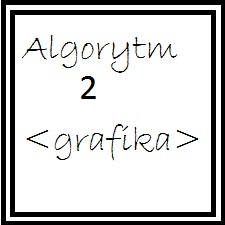
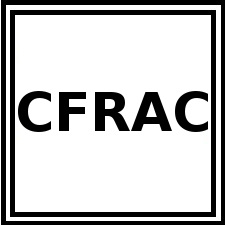
Addeded CFRAC adding page.

Changed region(s): [[0.0622, 0.3111, 0.9333, 0.7156], [0.3733, 0.1556, 0.7778, 0.3422], [0.0933, 0.1556, 0.4044, 0.3111]]

diff --git a/templates/FactorerMain/userview.html b/templates/FactorerMain/userview.html
@@ -22,23 +22,3 @@
     {% endif %}
 
 {% endblock%}
-
-<!-- {% if elements_dict %}
-                    {% if elements_dict|get_item:task %}
-                        <p>Została rozłożona na czynniki:</br>
-                        <table>
-                        <tr>
-                        <td>Pierwszy czynnik</td><td>Drugi czynnik</td>
-                        </tr>
-                            {% for items in elements_dict|get_item:task %}
-                                <tr>
-                                {% for item in items %}
-                                    <td>{{ item }}</td>
-                                {% endfor %}
-                                </tr>
-                            {% endfor %}
-                        </table>
-                    {% else %}
-                    <p>Jest liczbą pierwszą.</p>
-                    {% endif %}                
-                {% endif %} -->

diff --git a/templates/FactorerMain/index.html b/templates/FactorerMain/index.html
@@ -6,8 +6,8 @@
                 <div class="info">Brute force</div>
             </div><!-- // end .portfolio-item -->
             <div class="portfolio-item fl push-2 col-1">
-                <a href="alg2"><img src="static/images/al2.jpg" alt="thumb" /></a>
-                <div class="info">Algorytm 2</div>
+                <a href={% url 'cfrac' %}><img src="static/images/al2.jpg" alt="thumb" /></a>
+                <div class="info">CFRAC</div>
             </div><!-- // end .portfolio-item -->
             <div class="portfolio-item fl push-2 col-1">
                 <a href="alg3"><img src="static/images/al3.jpg" alt="thumb" /></a>

diff --git a/FactorerMain/views.py b/FactorerMain/views.py
@@ -78,6 +78,27 @@ class BruteforceView(LoggedInMixin, View):
         return HttpResponse("Failed to get brute force number")
 
 
+class CFRACView(LoggedInMixin, View):
+    template_name = 'FactorerMain/algorithms/cfrac.html'
+
+    def get(self, request, *args, **kwargs):
+        algorithm_form = AlgorithmInputForm()
+
+        context = {'algorithm_form': algorithm_form}
+        return render(request, self.template_name, context)
+
+    def post(self, request, *args, **kwargs):
+        algorithm_form = AlgorithmInputForm(request.POST)
+        if algorithm_form.is_valid():
+            number = algorithm_form.cleaned_data['number']
+            algorithm = Algorithm.objects.get(name="CFRAC")
+            task = Task(number_to_factor=number, user=request.user,
+                        algorithm=algorithm)
+            task.save()
+            return HttpResponseRedirect("/")
+        return HttpResponse("Failed to get brute force number")
+
+
 class AboutView(LoggedInMixin, View):
     template_name = 'FactorerMain/about.html'
 

diff --git a/Factorer/urls.py b/Factorer/urls.py
@@ -23,6 +23,7 @@ urlpatterns = [
     url(r'^about/?$', views.AboutView.as_view(), name='about'),
     url(r'^creators/?$', views.CreatorsView.as_view(), name='creators'),
     url(r'^bruteforce/?$', views.BruteforceView.as_view(), name='bruteforce'),
+    url(r'^cfrac/?$', views.CFRACView.as_view(), name='cfrac'),
     url(r'^login/?$', 'django.contrib.auth.views.login'),
     url(r'^logout/?$', 'django.contrib.auth.views.logout'),
     url(r'^register/?$', views.register, name='register'),
